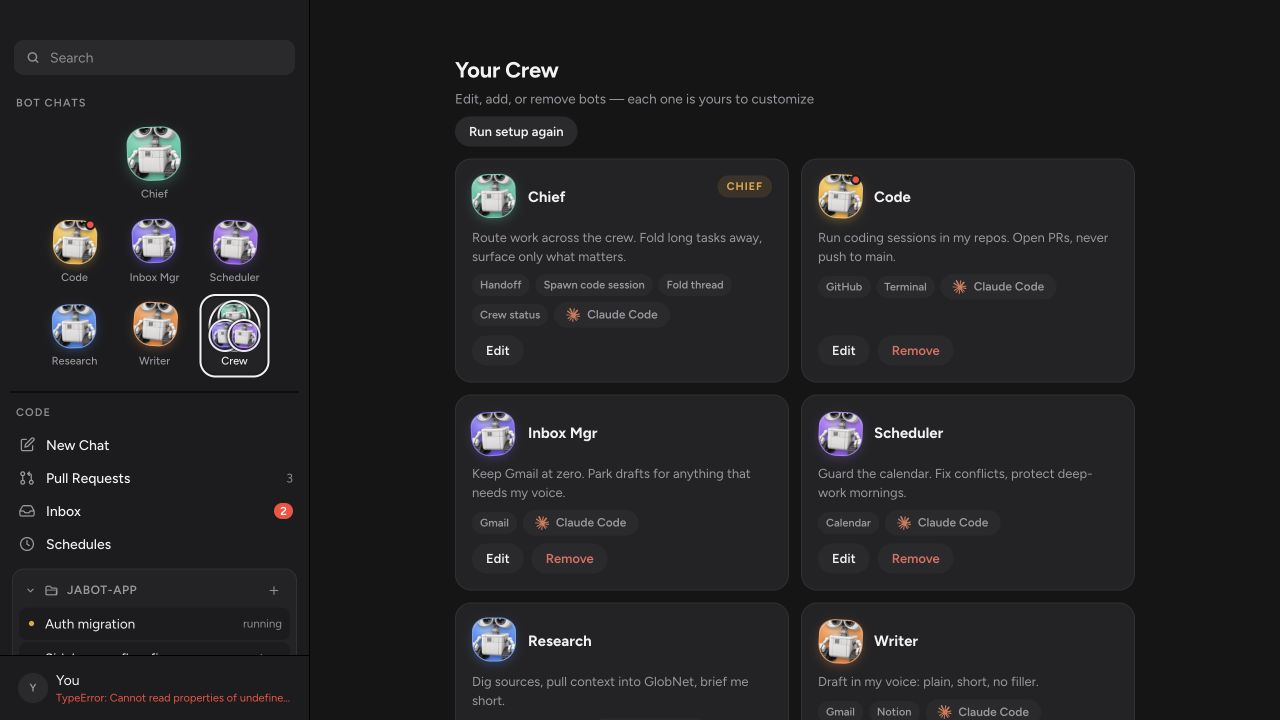
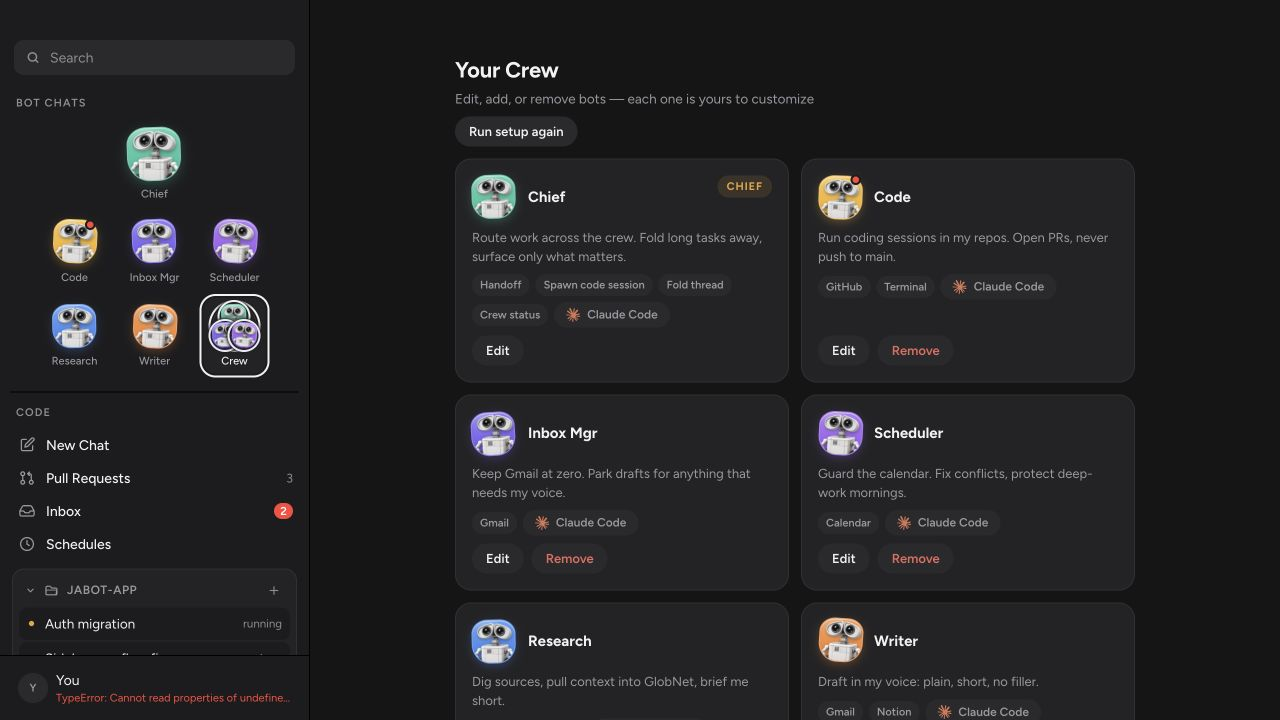
Keep every mascot face in frame

diff --git a/src/styles/avatar.css b/src/styles/avatar.css
@@ -144,7 +144,10 @@
   max-width: none;
   height: auto;
   left: -13%;
-  bottom: -7%;
+  /* Keep the whole face inside the portrait. Anchoring this oversized image
+     from the bottom put its top roughly 19% above the frame, which hid the
+     eye housings. A little headroom also absorbs the look animation's scale. */
+  top: 3%;
   user-select: none;
   pointer-events: none;
   filter: drop-shadow(0 calc(var(--s) * 0.04) calc(var(--s) * 0.04) rgba(16, 16, 18, 0.42));
@@ -322,9 +325,10 @@
 }
 
 .av-cluster .mascot-stage .mascot {
-  width: 148%;
-  left: -24%;
-  bottom: -11%;
+  /* These portraits are smaller, so keep the face large without pushing its
+     outer corners beyond the frame. The shared top anchor remains in force. */
+  width: 138%;
+  left: -19%;
 }
 
 .cluster.av-cluster > .s1 {
